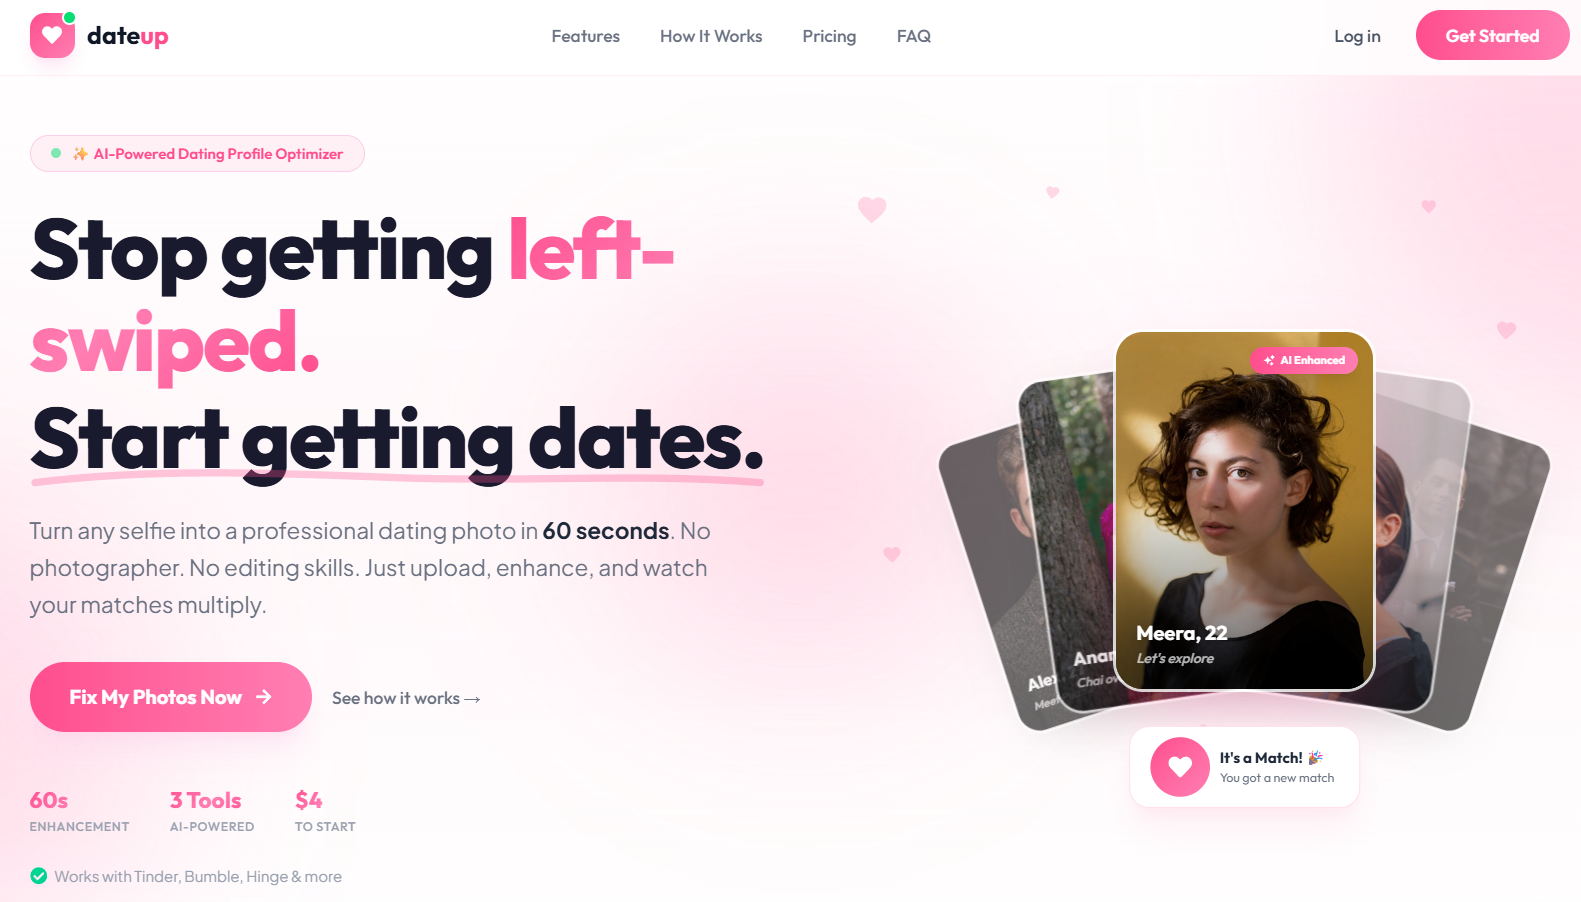
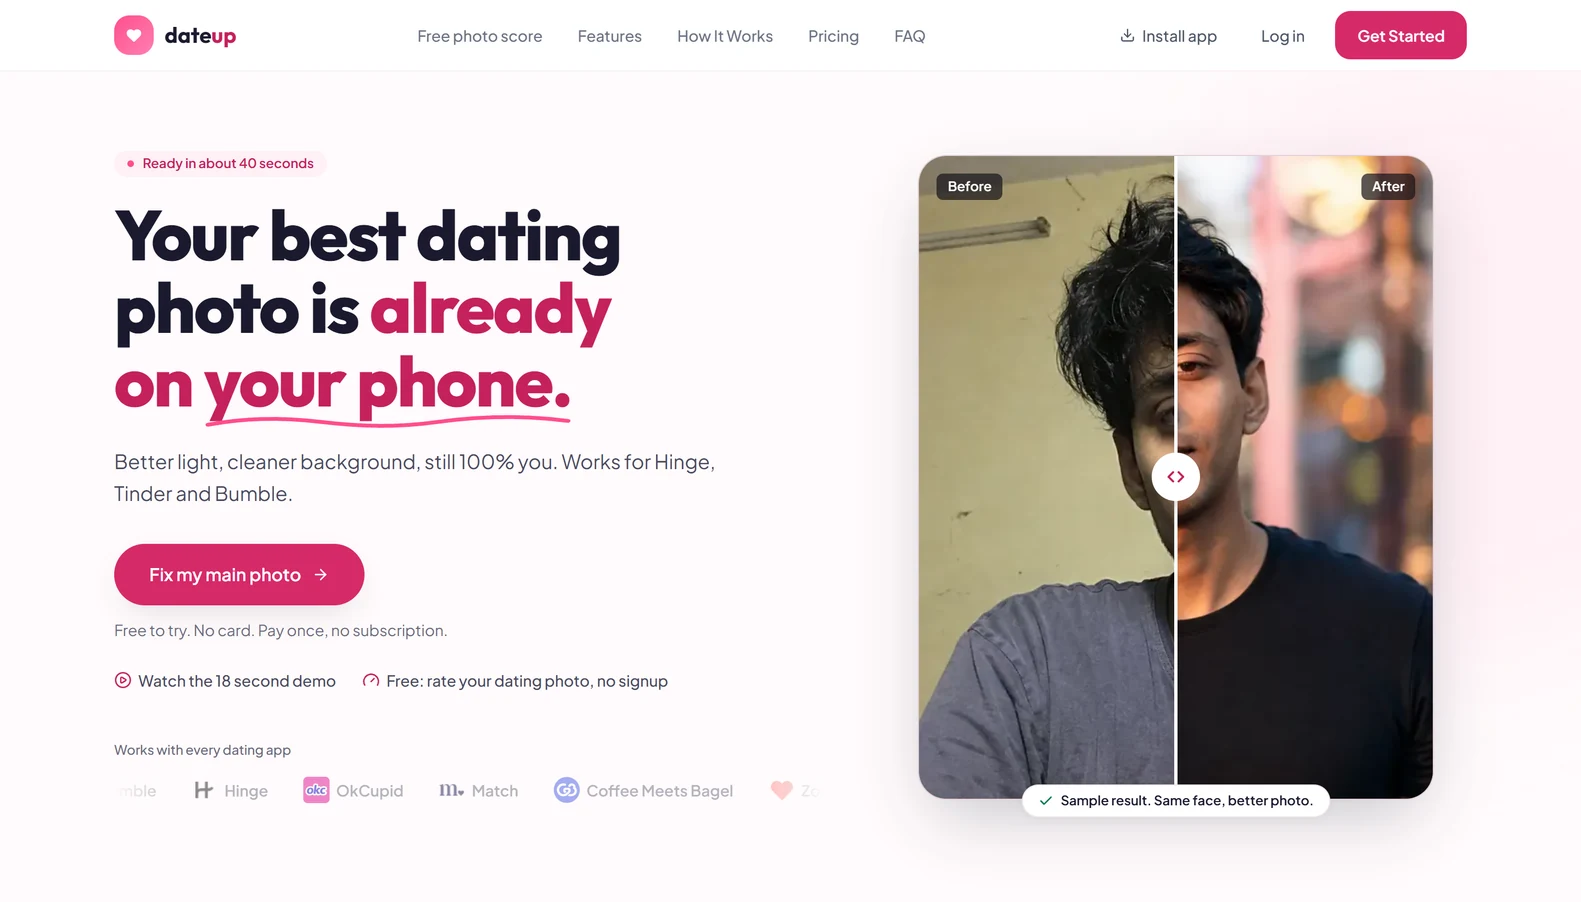
Refresh Dateup copy and screenshot for the redesigned site

diff --git a/src/data/resume.tsx b/src/data/resume.tsx
@@ -850,7 +850,7 @@ export const DATA = {
       active: true,
       group: "products",
       description:
-        "An AI dating profile optimizer: photo enhancement, a conversation starter assistant and a profile reviewer, running on Grok, OpenAI and Groq with Supabase auth and Dodo Payments. The SEO side worked better than the product: 155K+ Google impressions and 1.2K+ clicks in its first 4 months per Search Console, growing from 13K to 49K impressions a month, ranking for dating app comparison queries.",
+        "An AI dating profile optimizer that starts with the photo you already have: better light and a cleaner background in about 40 seconds, still 100% you, for Tinder, Bumble and Hinge. It also scores every profile photo out of 10 with exactly what to fix, and writes three openers from a screenshot of a match's profile. Pay once, no subscription. Runs on Grok, OpenAI and Groq with Supabase auth and Dodo Payments. 155K+ Google impressions and 1.2K+ clicks in its first 4 months per Search Console, growing from 13K to 49K impressions a month, ranking for dating app comparison queries.",
       technologies: [
         "Next.js",
         "Supabase",
